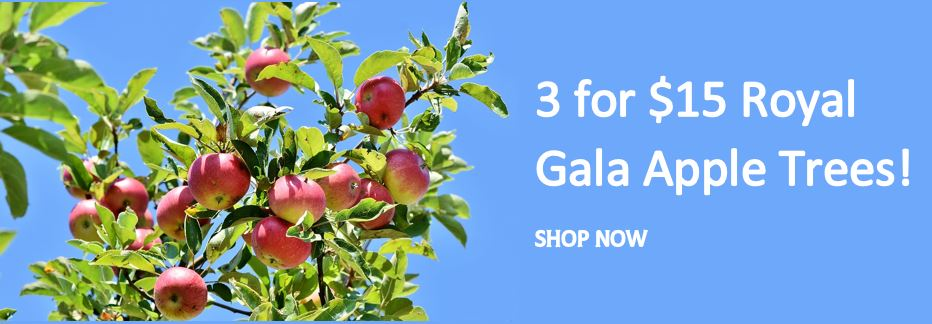
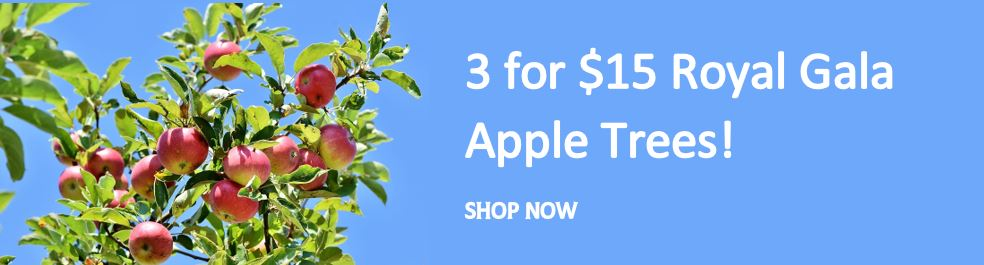
made carousel smaller and created apple tree image

diff --git a/cise2019/src/index.css b/cise2019/src/index.css
@@ -22,7 +22,7 @@
 .slider {
   position: relative;
   margin: 0 auto;
-  height: 100vh;
+  height: 50vh;
   overflow: hidden;
   white-space: nowrap;
 }
@@ -42,14 +42,14 @@
 .nextArrow {
   position: absolute;
   top: 40%;
-  right: -5%;
+  right: -7%;
   z-index: 999;
 }
 
 .backArrow {
   position: absolute;
   top: 40%;
-  left: -5%;
+  left: -7%;
   z-index: 999;
 }
 
@@ -80,8 +80,8 @@ h2 {
 }
 
 .arrow {
-  width: 22%;
-  height: 30%;
+  width: 20%;
+  height: 35%;
   display: flex;
   align-items: center;
   justify-content: center;

diff --git a/cise2019/src/components/Carousel.js b/cise2019/src/components/Carousel.js
@@ -3,6 +3,7 @@ import ImageSlide from './ImageSlide.js';
 import LeftArrow from './LeftArrow.js';
 import RightArrow from './RightArrow.js';
 import Tomatoes from './images/Tomatoes.JPG';
+import Apples from './images/AppleTrees.JPG';
 
 export default class HomePage extends Component {
 constructor(props) {
@@ -11,7 +12,7 @@ constructor(props) {
   this.state = {
     images: [
       Tomatoes,
-      "https://s3.us-east-2.amazonaws.com/dzuz14/thumbnails/city.jpg"
+      Apples
     ],
     currentIndex: 0,
     translateValue: 0
